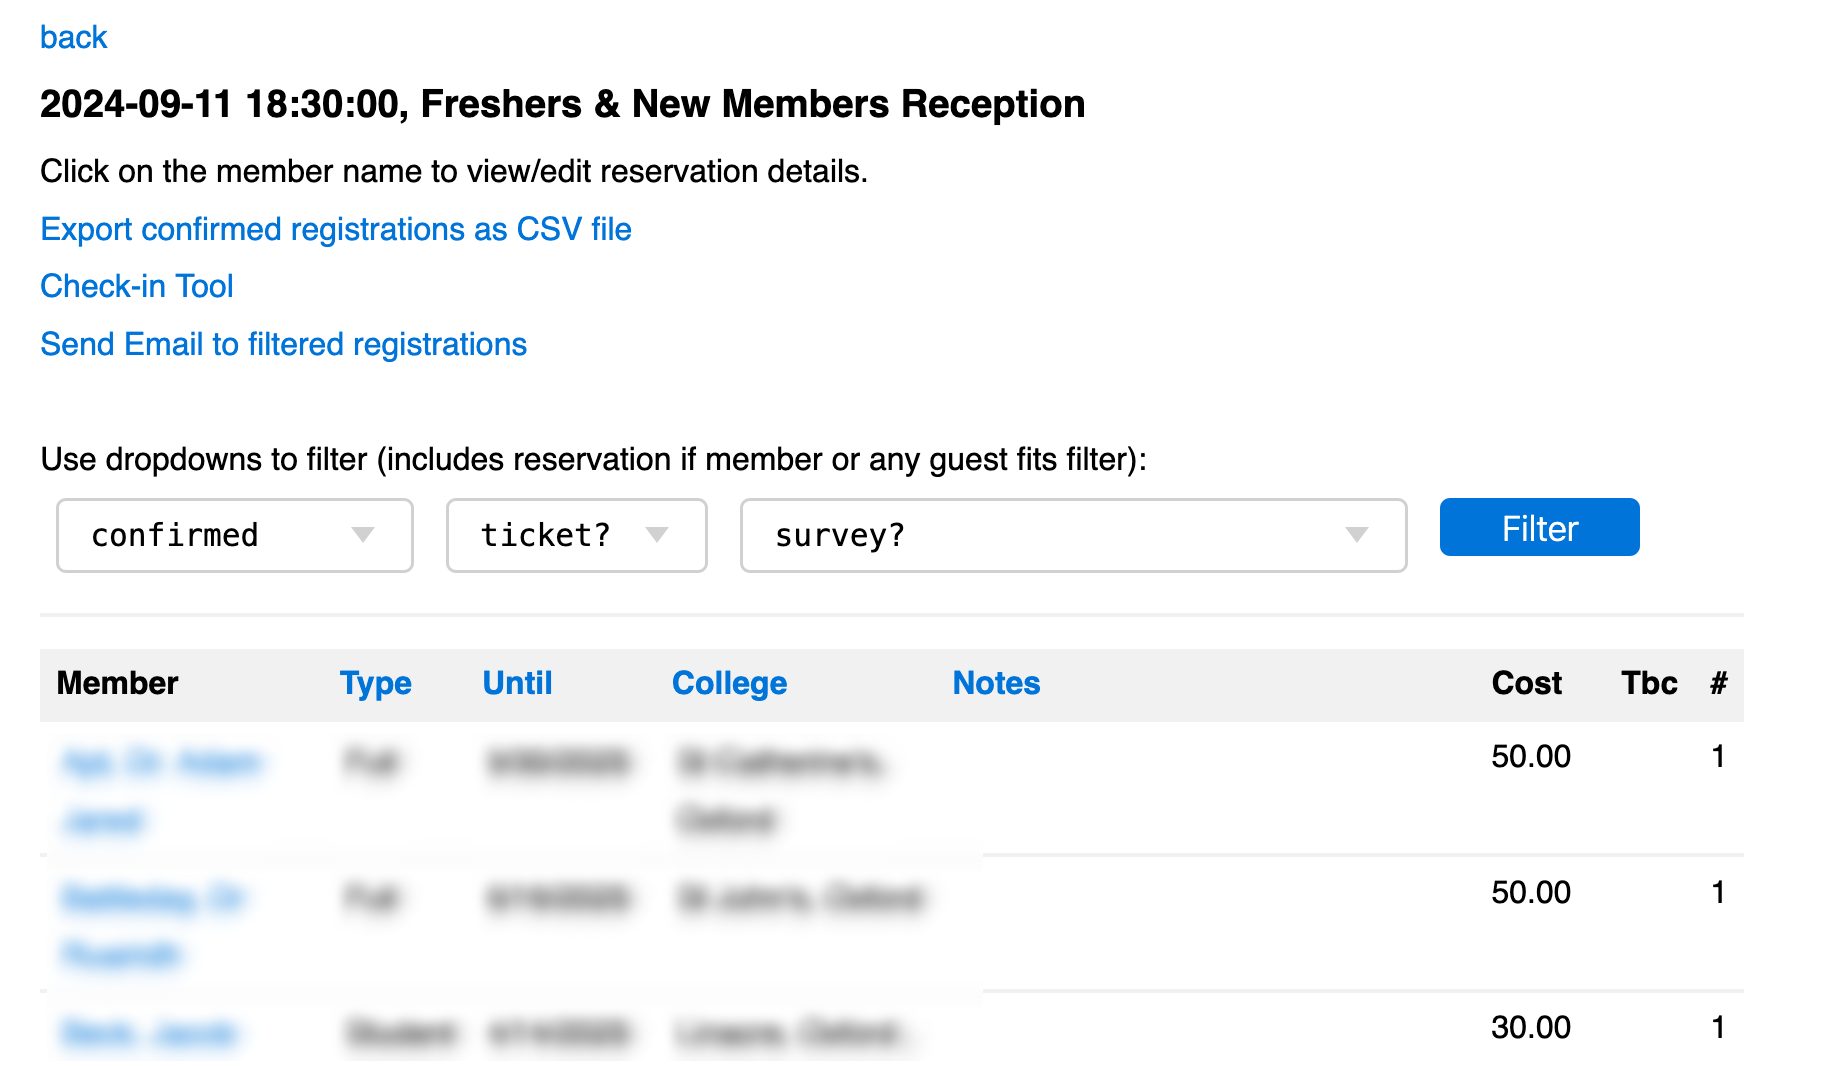
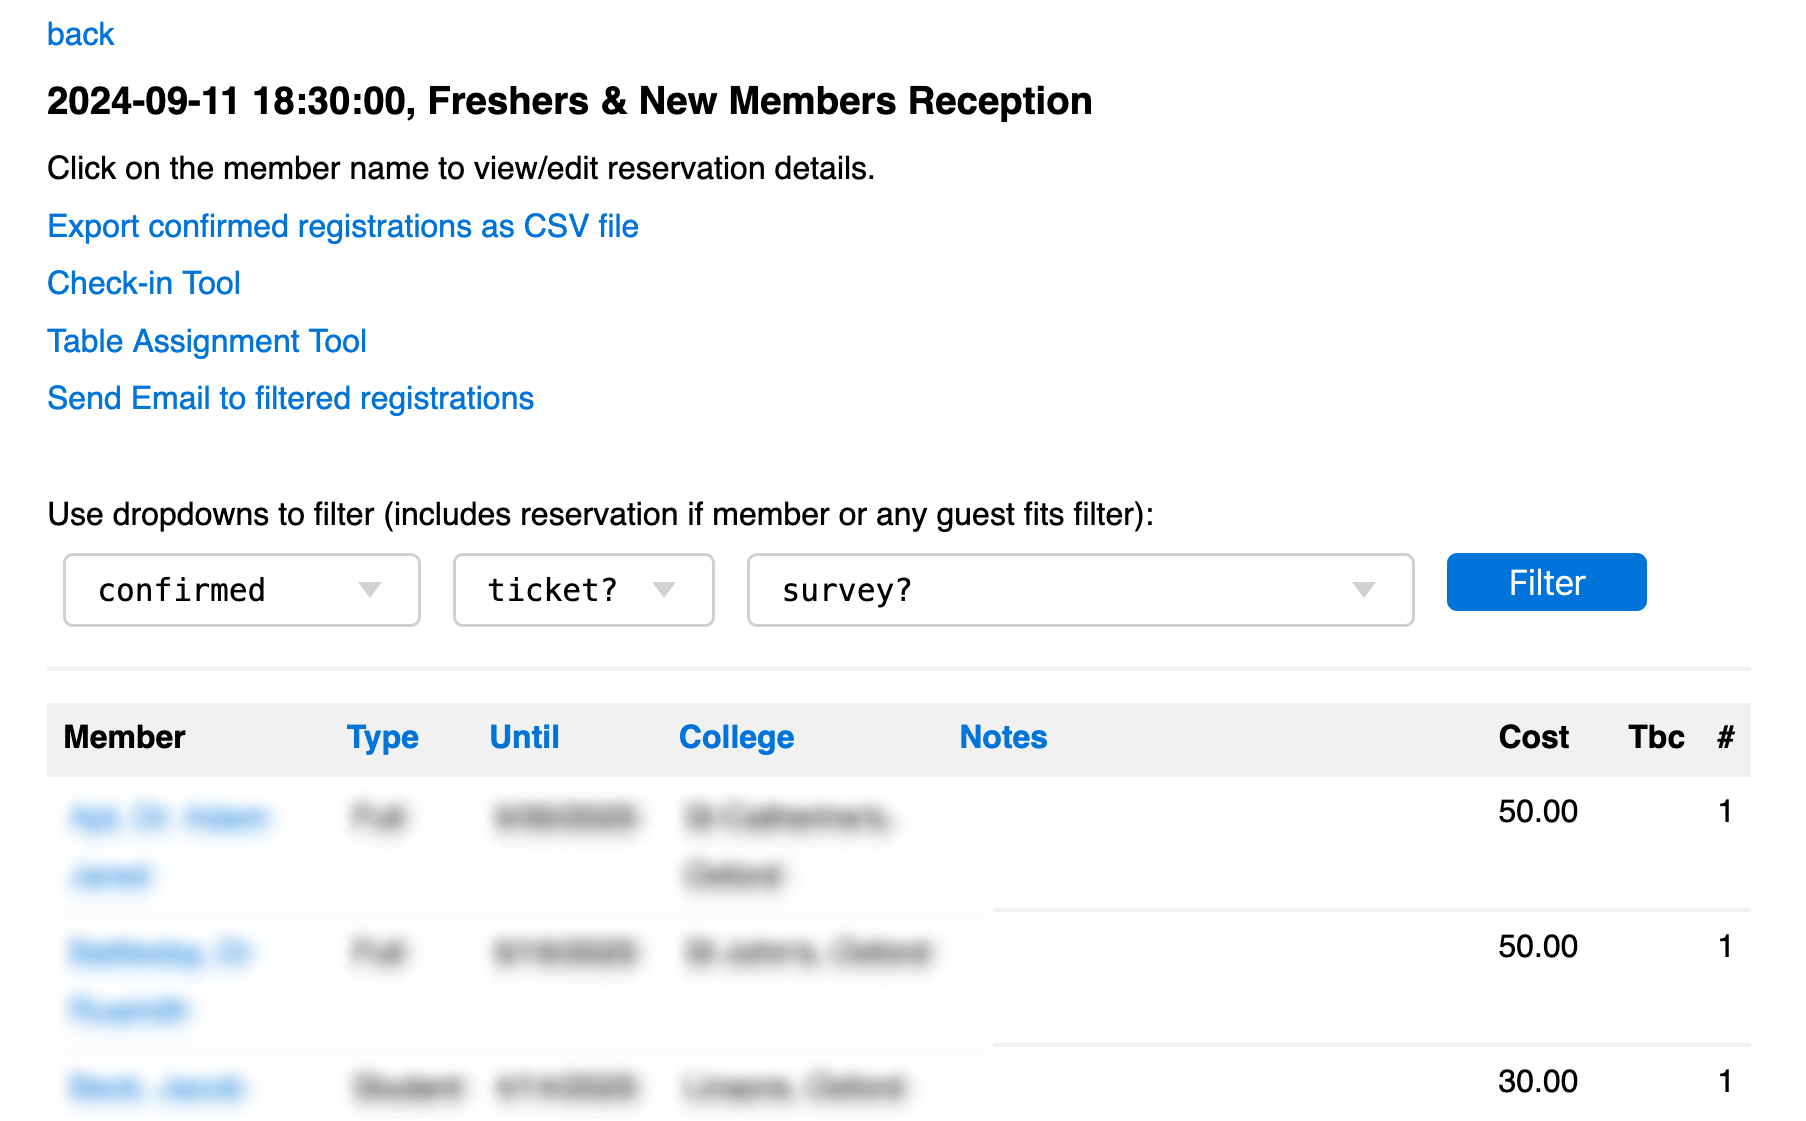
fix bug in event registration with missing Matr year. Add Table Assignment Tool.

diff --git a/controllers.py b/controllers.py
@@ -996,7 +996,8 @@ def event_reservations(event_id, path=None):
 		query += '&(db.Reservations.Waitlist==False)&(db.Reservations.Provisional==False)'
 		header = CAT(header, A('Export confirmed registrations as CSV file',
 			 _href=(URL(f'doorlist_export/{event_id}', scheme=True))), XML('<br>'),
-			 A('Check-in Tool', _href=URL(f'check_in/{event_id}/select', scheme=True)),
+			 A('Check-in Tool', _href=URL(f'check_in/{event_id}/select', scheme=True)), XML('<br>'),
+			 A('Table Assignment Tool', _href=URL(f'assign_tables/{event_id}/select', scheme=True)),
 			 XML('<br>'))
 		
 	if status == 'no_show':
@@ -1087,6 +1088,71 @@ def check_in(event_id, path=None):
 			grid_class_style=grid_style,rows_per_page=1000,
 			formstyle=form_style)
 	return locals()
+		
+@action('assign_tables/<event_id:int>', method=['POST', 'GET'])
+@action('assign_tables/<event_id:int>/<path:path>', method=['POST', 'GET'])
+@preferred
+@checkaccess('write')
+def assign_tables(event_id, path=None):
+	event = db.Events[event_id]
+	access = session.access	#for layout.html
+	header = CAT(H6(f"Assign Tables {event.DateTime.date()}, {event.Description}"),
+				XML("Filter to show a selected table, selecting host also adds that party to the table.<br>"),
+				A(("Clear"), _href=URL(f'assign_tables/{event_id}/select', scheme=True)),
+				XML(" to show all table assignments."),
+				)
+		
+	back = request.url
+	query = f"(db.Reservations.Event=={event_id})&(db.Reservations.Provisional==False)&(db.Reservations.Waitlist==False)"
+
+	search_form = Form([
+		Field('host', 'reference Members', requires=IS_EMPTY_OR(IS_IN_DB(db(
+			(db.Reservations.Event==event_id)&(db.Reservations.Provisional==False)&(db.Reservations.Waitlist==False)&(db.Reservations.Host==True)),
+			db.Reservations.Member, '%(Lastname)s, %(Firstname)s',))),
+	    Field('table', 'string',
+		   		widget=lambda field, value: INPUT(_name='table', _type='text', _value=request.query.get('table'), _placeholder="table?"))],
+		formstyle=FormStyleBulma, submit_value='Submit')
+
+	if search_form.accepted:	#Filter button clicked
+		select_vars = {}
+		if search_form.vars.get('table'):
+			select_vars['table'] = search_form.vars.get('table')
+			if search_form.vars.get('host'):
+				db(eval(query+"&(db.Reservations.Member==search_form.vars.get('host'))")).update(Table=search_form.vars.get('table'))
+		redirect(URL(f"assign_tables/{event_id}", vars=select_vars))
+
+	if request.query.get('table'):
+		query += f"&db.Reservations.Table.ilike('%{request.query.get('table')}%')"
+
+	table_counts = {}
+	for r in db((db.Reservations.Event==event_id) &
+				(db.Reservations.Provisional==False) &
+				(db.Reservations.Waitlist==False) &
+				(db.Reservations.Table != None) &
+				(db.Reservations.Table != '')).select(db.Reservations.Table):
+		t = r.Table.strip()
+		if t:
+			table_counts[t] = table_counts.get(t, 0) + 1
+
+	grid = Grid(path, eval(query), left = db.Members.on(db.Members.id==db.Reservations.Member),
+			orderby=db.Reservations.Table|db.Members.Lastname|db.Members.Firstname|~db.Reservations.Host|db.Reservations.Lastname|db.Reservations.Firstname,
+			columns=[
+				Column('Guest', lambda row: CAT(('+ ' if not row.Reservations.Host else ''),
+									A(f"{row.Reservations.Lastname+', '+row.Reservations.Firstname}",
+									_href=URL(f"manage_reservation/{row.Reservations.Member}/{event_id}/select",
+									vars=dict(back=back)), _style='white-space: normal')),
+					required_fields=[db.Reservations.Host, db.Reservations.Lastname, db.Reservations.Firstname, db.Reservations.Member]),
+				db.Members.Membership, db.Reservations.Affiliation,
+				Column('Matr', lambda row: primary_matriculation(row.Reservations.Member) if row.Reservations.Host else ''),
+				db.Reservations.Notes, db.Reservations.Table,
+            	Column('Count', lambda row: table_counts.get((row.Reservations.Table or '').strip(), '') if row.Reservations.Table else '',
+					required_fields=[db.Reservations.Table]),
+			],
+			details=False, editable=False, create=False,
+			deletable=False, search_form=search_form,
+			grid_class_style=grid_style,rows_per_page=1000,
+			formstyle=form_style)
+	return locals()
 
 #this controller is used by privileged users to manage event registrations.
 #most of the rules governing registration, e.g. capacity constrains, membership requirements,
@@ -1162,6 +1228,11 @@ Deleting or moving member on/off waitlist will also affect all guests."))
 			db.Reservations.Lastname.writable=True
 			db.Reservations.Provisional.default=not host_reservation.Waitlist
 			db.Reservations.Waitlist.default=host_reservation.Waitlist
+			db.Reservations.Table.readable=db.Reservations.Table.writable=False
+			db.Reservations.Charged.readable=False
+			db.Reservations.Survey_.readable=False
+			db.Reservations.Checkout.readable=False
+			db.Reservations.Comment.readable=False
 		else:
 			#creating or revising the host reservation
 			db.Reservations.Title.default = member.Title
@@ -1183,8 +1254,11 @@ Deleting or moving member on/off waitlist will also affect all guests."))
 		if len(form.errors)>0:
 			flash.set("Error(s) in form, please check")
 			return
-		if (form.vars.get('id')):
-			if int(form.vars.get('id')) == host_reservation.id and (form.vars.get('Waitlist') != host_reservation.Waitlist or form.vars.get('Provisional') != host_reservation.Provisional):
+		if (form.vars.get('id') and (int(form.vars.get('id')) == host_reservation.id)):
+			if form.vars.get('Table') != host_reservation.Table:
+				for row in all_guests:
+					row.update_record(Table = form.vars.get('Table'))
+			if form.vars.get('Waitlist') != host_reservation.Waitlist or form.vars.get('Provisional') != host_reservation.Provisional:
 				for row in all_guests:
 					if row.id != host_reservation.id and (not row.Provisional or host_reservation.Provisional):
 						row.update_record(Waitlist = form.vars.get('Waitlist'), Provisional = form.vars.get('Provisional'))
@@ -1331,6 +1405,7 @@ def reservation(path=None):
 		db.Reservations.Provisional.default = True
 		db.Reservations.Waitlist.readable = False
 		db.Reservations.Checked_in.readable = False
+		db.Reservations.Table.readable = False
 
 		if host_reservation:
 			#update member's name from member record in case corrected
@@ -1483,7 +1558,7 @@ def doorlist_export(event_id):
 		writer.writerow([row.Members.Lastname, row.Members.Firstname, row.Reservations.Notes or '',
 							row.Reservations.Lastname, row.Reservations.Firstname, row.Reservations.Affiliation.Name if row.Reservations.Affiliation else '',
 							primary_matriculation(row.Reservations.Member) or '' if row.Reservations.Host==True else '',
-							selection_name, '', ticket_name,
+							selection_name, row.Reservations.Table or '', ticket_name,
 							primary_email(row.Reservations.Member) if row.Reservations.Host==True else '',
 							row.Members.Cellphone if row.Reservations.Host==True else '',
 							survey_name, row.Reservations.Comment or '',
@@ -1512,7 +1587,7 @@ def event_copy(event_id):
 
 	flash.set("Please customize the new event.")
 	redirect(URL(f'events/edit/{new_event_id}', vars=dict(_referrer=request.query._referrer)))
-
+	
 @action('events_export', method=['GET'])
 @action.uses("download.html2", db, session, flash, Inject(response=response))
 @checkaccess('write')
@@ -1552,7 +1627,7 @@ def pages(path=None):
 		back = decode_url(request.query._referrer)
 		if path=='new':
 			header = CAT(A('back', _href=back), H5('New Public Page'))
-		else:
+		elif path:
 			page_id = path[path.find('/')+1:]
 			page = db.Pages[page_id]
 			if page.Content:
@@ -1640,9 +1715,9 @@ def get_date_range():
 			form.errors.end = 'end should not be before start!'
 		
 	form=Form(
-		[Field('start', 'date', requires=[IS_NOT_EMPTY(),IS_DATE()],
+		[Field('start', 'date', requires=[IS_NOT_EMPTY(),IS_DATE()], label='Start Date',
 			default = prev_year_begin if request.query.function=='tax_statement' else year_ago.date()),
-		Field('end', 'date', requires=[IS_NOT_EMPTY(),IS_DATE()],
+		Field('end', 'date', requires=[IS_NOT_EMPTY(),IS_DATE()], label='End Date',
 			default = prev_year_end if request.query.function=='tax_statement' else today.date())]
 	)
 	
@@ -1786,7 +1861,7 @@ def financial_statement(start, end):
 		totexp += exp
 	rows.append(THEAD(TR(TH('Total'), TH(''), tdnum(totrev, th=True),
 			  tdnum(totexp, th=True), tdnum(totrev+totexp, th=True))))
-	header  = CAT(header, H6('\nAdmin & Event Cash Flow'), TABLE(*rows))
+	header = CAT(header, H6('\nAdmin & Event Cash Flow'), TABLE(*rows))
 	return locals()
 	
 @action('tax_statement/<start>/<end>', method=['GET'])
@@ -2326,7 +2401,7 @@ def composemail():
 			if form2.vars['save']:
 				proto.update_record(Subject=form2.vars['subject'],
 					Body=form2.vars['body'])
-				flash.set("Template updatelend: "+ form2.vars['subject'])
+				flash.set("Template updated: "+ form2.vars['subject'])
 		else:
 			if form2.vars['save']:
 				db.EMProtos.insert(Subject=form2.vars['subject'], Body=form2.vars['body'])
@@ -2468,10 +2543,12 @@ def registration(event_id=None):	#deal with eligibility, set up member record an
 	session['dues'] = None
 			
 	affinity = None
+	good_standing = False
 	clist = collegelist(event.Sponsors if event_id and event.Sponsors else [])
 	
 	if member_id:
 		member = db.Members[member_id]
+		good_standing = member_good_standing(member, datetime.datetime.now(TIME_ZONE).replace(tzinfo=None).date())
 		affinity = db((db.Affiliations.Member==member_id)&db.Affiliations.College.belongs([c[0] for c in clist])).select(
 							orderby=db.Affiliations.Modified).first()
 		if affinity:
@@ -2483,14 +2560,13 @@ def registration(event_id=None):	#deal with eligibility, set up member record an
 			if member_reservation:
 				if member_reservation.Checkout:	#checked out but didn't complete payment
 					checkout = eval(member_reservation.Checkout)
-					if not member_good_standing(member, datetime.datetime.now(TIME_ZONE).replace(tzinfo=None).date()):
+					if not good_standing:
 						#still need dues, so signal
 						session['membership'] = checkout.get('membership')
 						session['dues'] = str(checkout.get('dues')) if checkout.get('dues') else None
 				redirect(URL('reservation/select'))	#go add guests and/or checkout
 			if sponsor or (affinity and affinity.Matr or member.Membership and not affinity) and \
-			   		(member_good_standing(member, datetime.datetime.now(TIME_ZONE).replace(tzinfo=None).date()) \
-						or not event.Members_only and not event.Allow_join):
+			   		(good_standing or not event.Members_only and not event.Allow_join):
 				#members of sponsor organizations, or membership eligible and member in good standing, or 
 				#event open to all alums and not offering join option, then no need to gather member information
 				#ALSO collect Matr if missing from affinity, and allow approved unaffiliated members
@@ -2533,11 +2609,11 @@ XML(f"This event is open to \
 	if not affinity or not affinity.Matr:
 		fields.append(Field('matr', 'integer', default = affinity.Matr if affinity else None,
 				requires=IS_EMPTY_OR(IS_INT_IN_RANGE(datetime.datetime.now(TIME_ZONE).replace(tzinfo=None).year-100,datetime.datetime.now(TIME_ZONE).replace(tzinfo=None).year+1)),
-				comment='Please enter your matriculation year, not graduation year'))
+				comment='If Oxford or Cambridge alum, please enter your matriculation year'))
 
 	if event:
 		mustjoin = event.Members_only and not event.Sponsors
-		if len(MEMBERSHIPS)>0 and (event.Members_only or event.Allow_join):
+		if len(MEMBERSHIPS)>0 and (event.Members_only or event.Allow_join) and not good_standing:
 			fields.append(Field('join_or_renew', 'boolean', default=mustjoin,
 				comment=' this event is restricted to OxCamNE members' if mustjoin else \
 					' tick if you are an Oxbridge alum and also wish to join OxCamNE or renew your membership'))
@@ -2568,7 +2644,7 @@ XML(f"This event is open to \
 			form.errors['affiliation']='please select your affiliation from the dropdown, or contact '+SUPPORT_EMAIL
 		if form.vars.get('affiliation') and (not affinity or not affinity.Matr) and not form.vars.get('matr'):
 			form.errors['matr'] = 'please enter your matriculation year'
-		if event and event.Members_only and not form.vars.get('join_or_renew'):
+		if event and event.Members_only and form.vars.get('join_or_renew')==False:
 			form.errors['join_or_renew'] = 'This event is for members only, please join/renew to attend'
 		if form.vars.get('membership'):
 			membership = next((m for m in MEMBERSHIPS if m.category==form.vars.get('membership')))

diff --git a/models.py b/models.py
@@ -301,15 +301,16 @@ db.define_table('Reservations',
 			requires=IS_EMPTY_OR(IS_IN_DB(db, db.Colleges.id, '%(Name)s', orderby=db.Colleges.Name))),
 	Field('Ticket_', 'reference Event_Tickets'),
 	Field('Selection_', 'reference Event_Selections'),
-	Field('Survey_', 'reference Event_Survey', writable=False),
 	Field('Notes', 'string'),	#host name specified, or justifying ticket selection
-	Field('Comment', 'string', writable=False),	#answer to open ended question
 	Field('Provisional', 'boolean', default=False, writable=False),
 													#incomplete reservation: checkout not started, places not allocated
 	Field('Waitlist', 'boolean', default=False, writable=False),	#now meaningfull in each individual reservation
 	Field('Checked_in', 'boolean', default=False, writable=False),
 	
 	#following fields meaningfull only on the member's own reservation (Host==True)
+	Field('Table', 'string', default=''),	#table assignment, if any (host only)
+	Field('Survey_', 'reference Event_Survey', writable=False), #survey response (host only)
+	Field('Comment', 'string', writable=False),	#answer to open ended question (host only)
 	Field('Charged', 'decimal(6,2)', writable=False),	#payment made, not yet downloaded from Stripe
 	Field('Checkout', 'string', writable=False),	#session.vars of incomplete checkout
 

diff --git a/docs/check_in.md b/docs/check_in.md
@@ -8,10 +8,12 @@ It is designed for use when checking in guests at the event, and so is designed 
 
 ![check_in](images/check_in.png)
 
-The list starts by showing all reservations where at list one confirmed guest (either the host or one of their guests) has not yet checked in.
+The list starts by showing all reservations where at least one confirmed guest (either the host or one of their guests) has not yet checked in. Members' guests are shown with a '+' prefix immediately following the host member.
 
-In the example, typing the initial 'M' in the search box has filtered the list down to a single reservation with containing a matching last name. The reservation includes the member (host) and one guest. The guest has been checked-in, as shown by the solid disc. Clicking on the empty disc will check-in the member and, as the reservation is now completely checked in, will clear the search box and display all remaining guests still to be checked-in. Note that clicking on a solid disc will clear the checked-in status of that guest.
+In the example, typing the initial 'M' in the search box has filtered the list down to a few reservations where either the member or a guest has a matching last name. Clicking on an empty disc will check-in the individual guest. If this is the last guest in a party to be checked in the party is removed from the display, otherwise the disc is filled in, and the remaining guests in the party can be checked-in.
 
-The 'last checked' link is shown after a guest has been checked in, and opens up the [details of that reservation](event_registration.md), even if the reservation is fully checked-in. Ticks in the status column indicate that the guests have been checked in. The 'back' link will return to the check-in tool, and the guest will appear in the list together with a tick (normally guests don't show the tick-link).
+The 'last checked' link is shown after any guest has been checked in, and opens up the [details of that reservation](event_registration.md), even if the reservation is fully checked-in. Ticks in the status column indicate that the guests have been checked in. The 'back' link will return to the check-in tool.
 
-To use the search field, start typing the last name of a member or guest. Usually two or three letters will be enough to find the desired reservation.
+Clicking on a guest name also opens up the reservation details for that party.
+
+To use the search field, start typing the last name of a member or guest. Usually two or three letters will be enough to locate the desired reservation.

diff --git a/docs/assign_tables.md b/docs/assign_tables.md
@@ -1,0 +1,15 @@
+# [Oxford/Cambridge Alumni Group Application](index.md)
+
+## Table Assignment Tool
+
+This page is reached by clicking on an event name on the [Reservation List](reservation_list.md) and then clicking the "table assignment tool" link.
+
+It is designed for use prior to a formal event such as a dinner. The table assignments are included in the exported doorlist.csv file and can be used on name badges.
+
+![assign_tables](images/assign_tables.png)
+
+The page includes a grid initially including all confirmed registered members and guests. Guests not yet assigned a table appear at the top, followed by those in each table in party (member) name order within tables. Guests are shown after their host member with a '+' prefix in front of their name.
+
+To show just the guests assigned to a table, type the table number in the 'table?' box and click filter. Selecting a member in the left hand box, placing a table number in the right hand box and clicking 'Filter' assigns the member and all of their guests to the specified table, and leaves the grid showing the resulting composition of that table, so that additional guests can easily be assigned.
+
+Clicking 'clear' clears the filter boxes and restores the grid to show all confirmed registered guests.

diff --git a/docs/reservation_list.md b/docs/reservation_list.md
@@ -23,7 +23,9 @@ Additional filter dropdown buttons are shown depending on whether the event has 
 
 Confirmed reservations can be exported using the **Export Doorlist as CSV file** link. The resulting spreadsheet can be used to print the doorlist, generate name badges, plan table assignments, etc. The door list includes all confirmed members and guests. See the 'how to' for help in preparing name badges.
 
-The **[Check-in Tool](check_in.md)** displayes the not yet checked in confirmed reservations.
+The **[Check-in Tool](check_in.md)** displayes the not yet checked in confirmed reservations, and is used to check people in at the door.
+
+The **[Table Assignment Tool](assign_tables.md)** is used record table assignments, e.g. for formal dinners.
 
 The **Send_Email_Notice** link allows sending notices to attendees, waitlisted, or provisional registrants. Note that the message can be customized using [[greeting>]], [[reservation]], and [[registration_link]] elements.
 
